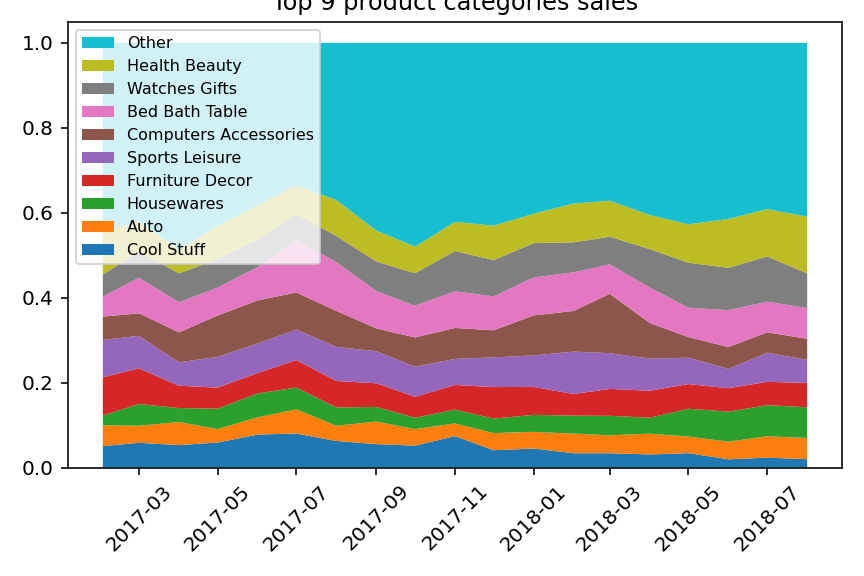
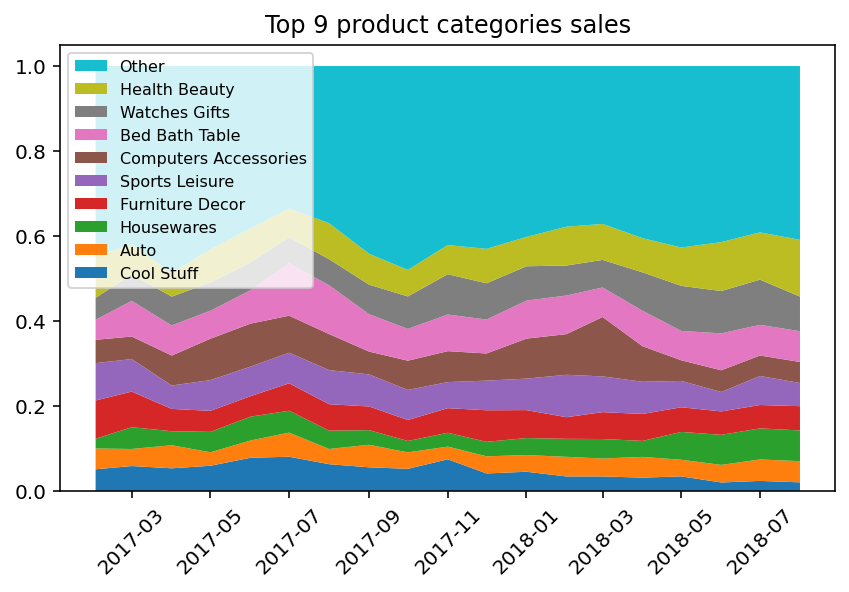
fixed issue where top of timeseries sales was cut off

diff --git a/scripts/temporal_variation.py b/scripts/temporal_variation.py
@@ -87,5 +87,5 @@ plt.xticks(rotation=45)
 plt.tight_layout()
 plt.title(label=f"Top {top_n} product categories sales")
 
-plt.savefig(project_root / "visuals" / "timeseries_sales.png")
+plt.savefig(project_root / "visuals" / "timeseries_sales.png", bbox_inches="tight")
 plt.show()
